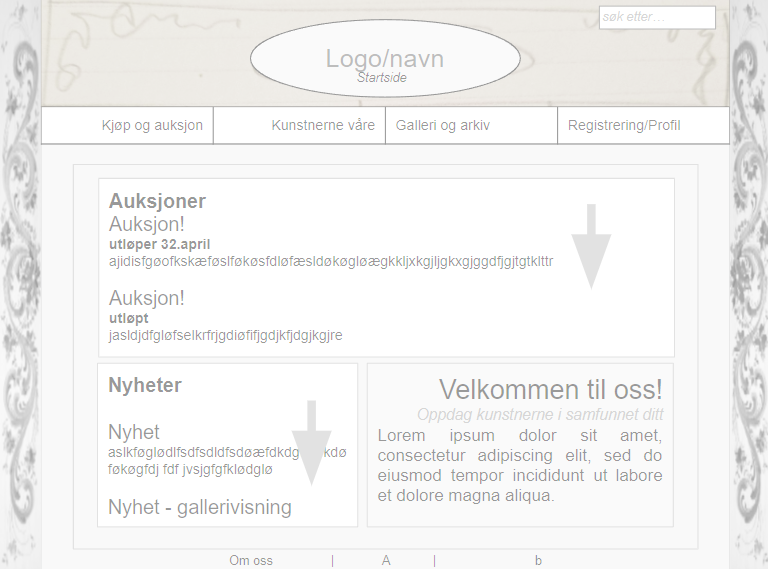
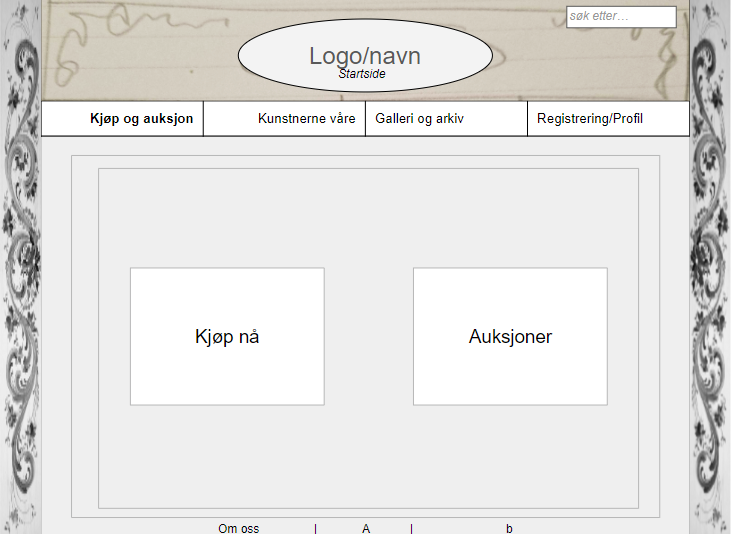
tirsdagsøkt 15.04

diff --git a/mainView.js b/mainView.js
@@ -4,25 +4,27 @@ function updateMainView(){
     
     <div class="container">
         <div class="item item-1">
-            <div id="logoGoHere">Logo/navn</div>
+            <div id="logoGoHere" onclick="updateInnerMainView()">Logo/navn</div>
             <input type="text" id="søkefeltHer" value="Søk her..."/>
         </div>
         <div class="item item-2">
             <span class="navigationBar">
-                <div class="tmtm-L">Kjøp og auksjon</div>
+                <div class="tmtm-L" onclick="updateTradeView()">Kjøp og auksjon</div>
                 <div class="brdrL">
-                    <div class="tmtm-L">Kunstnerne våre</div>
+                    <div class="tmtm-L" onclick="updateArtistView()">Kunstnerne våre</div>
                 </div>
                 <div class="brdrL">
-                    <div class="tmtm-R">Galleri og arkiv</div>
+                    <div class="tmtm-R" onclick="updateGalleryAndArchiveView()">Galleri og arkiv</div>
                 </div>
                 <div class="brdrL">
-                    <div class="tmtm-R">Registrering/Profil</div>
+                    <div class="tmtm-R" onclick="updateProfileView()">Registrering/Profil</div>
                 </div>
             </span>
         </div>
         <div class="item item-3">
-            <div id="appingtonTheMother"></div>
+            <div id="appingtonTheMother">
+                <div id="appingtonTheSecond"></div>
+            </div>
         </div>
         <div class="item item-4"></div>
         <div class="item item-5"></div>

diff --git a/artistView.js b/artistView.js
@@ -1,0 +1,36 @@
+
+function updateArtistView(){
+    document.getElementById("appingtonTheSecond").innerHTML=/*HTML*/`
+    <div id="para">
+        <div class="artistRow" id="kunstner_1">
+            <div class="artistProfileProportions">picture</div>
+            <div class="artistTekstContainer">
+                <h2 id="artistName">Kunstner</h2>
+                <div id="artistBio">
+                bio/beskrivelsesteksten(marius)
+                </div>
+            </div>
+        </div>
+        <div class="artistRow" id="kunstner_1">
+            <div class="artistProfileProportions">picture</div>
+            <div class="artistTekstContainer">
+                <h2 id="artistName">Kunstner</h2>
+                <div id="artistBio">bio/beskrivelsesteksten(marius)</div>
+            </div>
+        </div>
+        <div class="artistRow" id="kunstner_1">
+            <div class="artistProfileProportions">picture</div>
+            <div class="artistTekstContainer">
+                <h2 id="artistName">Kunstner</h2>
+                <div id="artistBio">bio/beskrivelsesteksten(marius)</div>
+            </div>
+        </div>
+        <div class="artistRow" id="kunstner_1">
+            <div class="artistProfileProportions">picture</div>
+            <div class="artistTekstContainer">
+                <h2 id="artistName">Kunstner</h2>
+                <div id="artistBio">bio/beskrivelsesteksten(marius)</div>
+        </div>
+    </div>
+    </div>
+    `;}

diff --git a/style.css b/style.css
@@ -115,9 +115,12 @@ body{
 #appingtonTheSecond{
     background-color: #d6e6e6;
     opacity: 40%;
-    margin-bottom: 10px;
-    height: 540px; width: 894px;
+    margin-bottom: 0px;
+    height: 554px; width: 882px;
     border: 1px solid darkgrey;
+}
+
+#appingtonTheThird {
     display: grid;
     grid-template-rows: 286px 254px;
     grid-template-columns: 418px 476px;
@@ -175,6 +178,38 @@ body{
     justify-content: center;
     }
 
+/*ARTIST VIEW STYLINGS*/
+
+#para {
+    height: 554px; width: 882px;
+    overflow: scroll;
+}
+
+.artistRow{
+    border: 1px solid purple; height: 166px; margin-bottom: 12px;
+    display: flex;
+    flex-direction: row; gap: 15px;
+}
+
+.artistProfileProportions {
+    border: 1px solid blue; background-color: blanchedalmond;
+    /*height: max-content;*/
+    width: 186px; height: 164px;
+}
+h2 {
+    margin-bottom: 0px;
+}
+
+/*GALLERY AND ARCHIVE BIEW STYLINGS*/
+
+.toDelt{
+    display: flex;
+    flex-direction: row;
+    
+}
+.delt_i_to{
+    border: 1px solid darkolivegreen;
+}
 
 
 

diff --git a/index.html b/index.html
@@ -7,9 +7,7 @@
     <link rel="stylesheet" href="style.css"/>
 </head>
 <body>
-    <div id="app"></div>
-
-
+    <div id="app"></div> <!--onload="updateInnerMainView()"-->
 
 
 
@@ -21,6 +19,7 @@
     <script src="artistView.js"></script>
     <script src="profileView.js"></script>
     <script src="galleryView.js"></script>
+    <script src="galleryAndArchiveView.js"></script>
     <script src="tradeView.js"></script>
     <script src="controller.js"></script>
 </body>

diff --git a/innerMainView.js b/innerMainView.js
@@ -1,7 +1,7 @@
-updateInnerMainView()
+//updateInnerMainView()
 function updateInnerMainView(){
-    document.getElementById("appingtonTheMother").innerHTML=/*HTML*/`
-    <div id="appingtonTheSecond">
+    document.getElementById("appingtonTheSecond").innerHTML=/*HTML*/`
+    <div id="appingtonTheThird">
         <div class="item" id="auctions">
             <h1>Auksjoner</h1>
         </div>

diff --git a/galleryAndArchiveView.js b/galleryAndArchiveView.js
@@ -1,0 +1,8 @@
+updateGalleryAndArchiveView()
+function updateGalleryAndArchiveView(){
+    document.getElementById("appingtonTheSecond").innerHTML=/*HTML*/`
+    <div class="toDelt">
+        <div class="delt_i_to">Kjøp nå</div>
+        <div class="delt_i_to">Auksjoner</div>
+    </div>`;
+}

diff --git a/adminView.js b/adminView.js
@@ -1,1 +1,4 @@
-//hei
+//updateAdminView()
+function updateAdminView(){
+    
+}

diff --git a/galleryView.js b/galleryView.js
@@ -1,0 +1,4 @@
+//updateGalleryView()
+function updateGalleryView(){
+
+}

diff --git a/profileView.js b/profileView.js
@@ -1,0 +1,2 @@
+//updateProfileView()
+function updateProfileView(){}

diff --git a/tradeView.js b/tradeView.js
@@ -1,0 +1,2 @@
+//updateTradeView()
+function updateTradeView(){}
